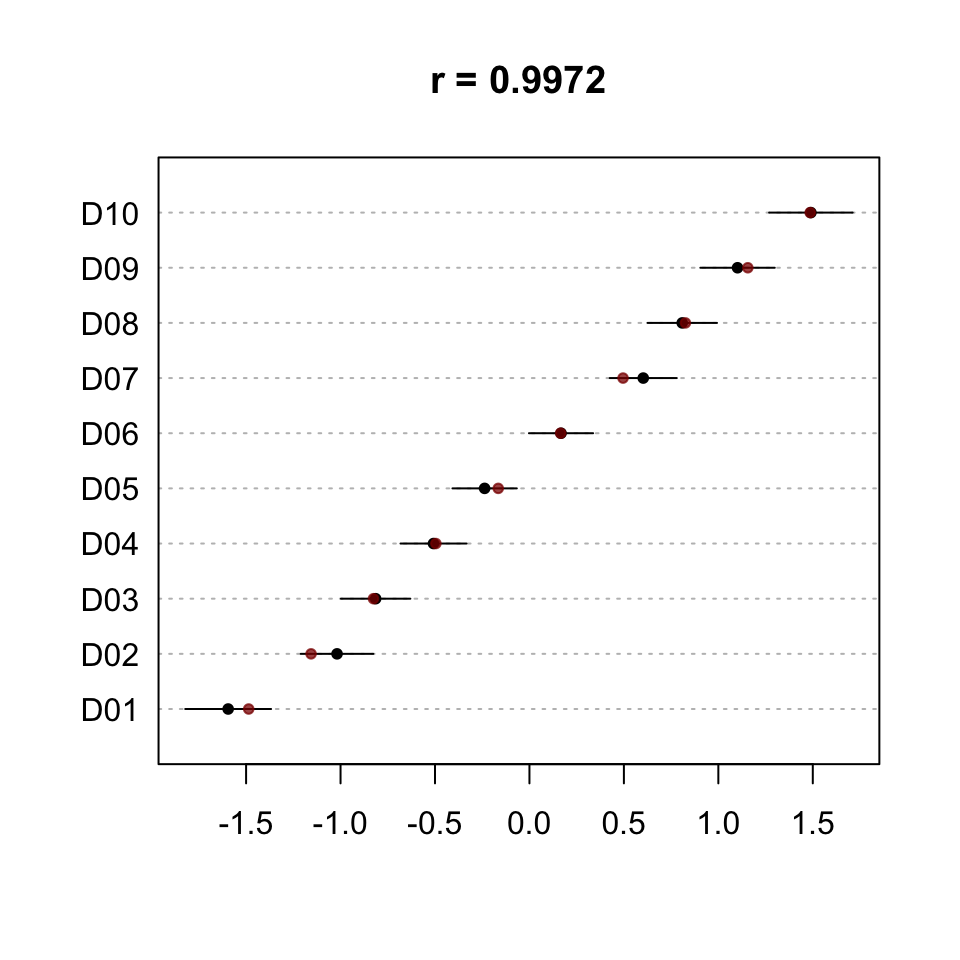
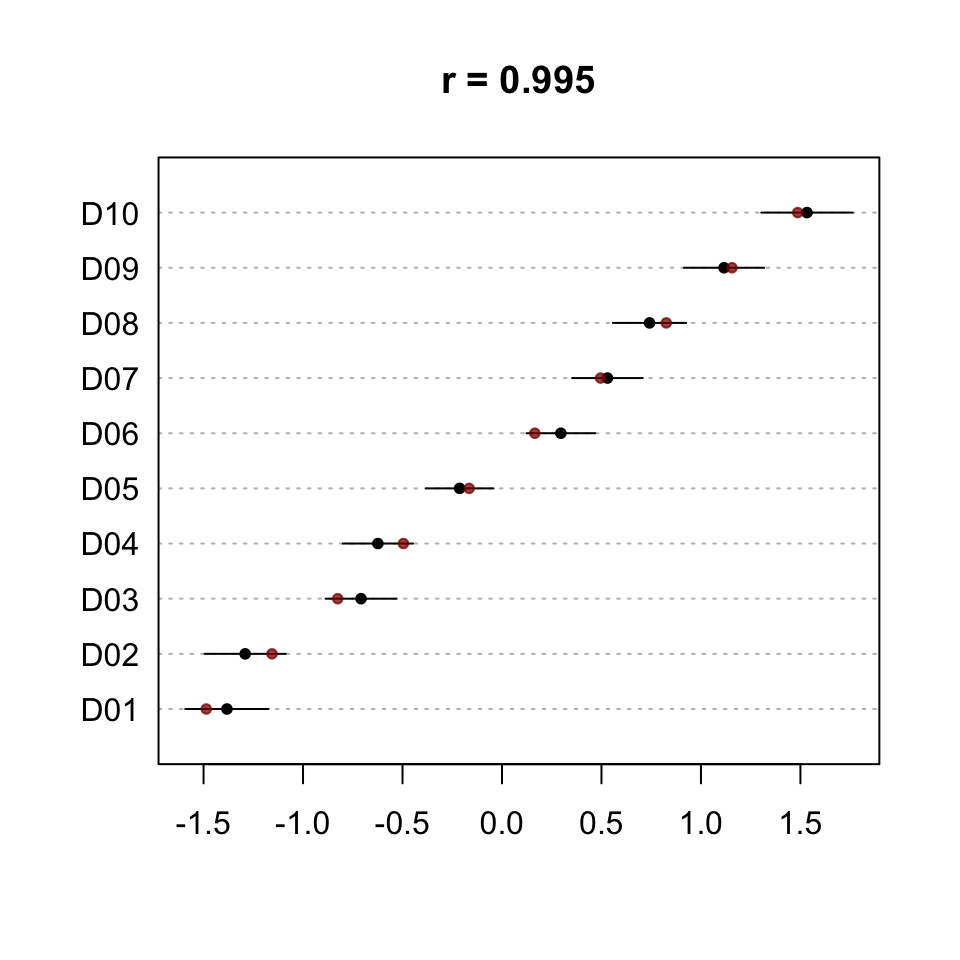
updated website

diff --git a/docs/articles/austin.html b/docs/articles/austin.html
@@ -59,7 +59,7 @@
       <h1>Introduction to Austin</h1>
                         <h4 class="author">Will Lowe</h4>
             
-            <h4 class="date">2017-06-30</h4>
+            <h4 class="date">2017-07-01</h4>
           </div>
 
     
@@ -105,18 +105,18 @@ Austin treats the first parameterization as a computational convenience to make 
 <div class="sourceCode"><pre class="sourceCode r"><code class="sourceCode r"><span class="kw"><a href="../reference/as.worddoc.html">as.worddoc</a></span>(dd$Y)
 ##      docs
 ## words D01 D02 D03 D04 D05 D06 D07 D08 D09 D10
-##   W01  32  39  27  23  12  25  17  15  16   6
-##   W02  36  44  27  32  28  16  12  14  12   6
-##   W03  41  32  37  38  16  22  11  13   5   7
-##   W04   3  16  14  11  17  33  21  35  35  39
-##   W05   6  10  16  17  24  25  22  28  34  34
-##   W06   6  14  14  13  21  28  31  33  46  31
-##   W07  88  92  71  86  80  59  49  35  37  20
-##   W08  97  86  93  69  75  54  50  37  26  30
-##   W09 126  82  95  67  73  56  40  39  28  21
-##   W10  24  27  37  48  52  60  60  87  96  95
-##   W11  16  28  25  35  53  63  86  76  72  96
-##   W12  25  30  44  61  49  59 101  88  93 115</code></pre></div>
+##   W01  41  39  28  27  30  23  16  12  13  10
+##   W02  41  35  28  24  28  15  15  13   6   9
+##   W03  40  27  29  31  25   9  12  16   8   3
+##   W04   9  12  20  14  18  22  27  27  28  42
+##   W05  11   8  17  26  18  35  30  30  41  43
+##   W06   5   5  14  15  28  26  26  28  34  28
+##   W07  89  93  76  81  61  49  50  34  31  25
+##   W08 104 102  83  81  64  54  43  36  35  13
+##   W09  83  97  88  78  62  57  42  42  23  22
+##   W10  24  33  38  45  62  70  89  98 103 107
+##   W11  21  25  42  36  43  69  74  83  93  94
+##   W12  32  24  37  42  61  71  76  81  85 104</code></pre></div>
 <p>where Y is an object of class <code>wfm</code>.</p>
 <p>To scale this data we use the wordfish function</p>
 <div class="sourceCode"><pre class="sourceCode r"><code class="sourceCode r">wf &lt;-<span class="st"> </span><span class="kw"><a href="../reference/wordfish.html">wordfish</a></span>(dd$Y)</code></pre></div>
@@ -127,46 +127,46 @@ Austin treats the first parameterization as a computational convenience to make 
 ##  wordfish(wfm = dd$Y)
 ## 
 ## Document Positions:
-##     Estimate Std. Error    Lower    Upper
-## D01  -1.5949    0.11593 -1.82216 -1.36773
-## D02  -1.0186    0.09805 -1.21075 -0.82638
-## D03  -0.8142    0.09375 -0.99795 -0.63047
-## D04  -0.5079    0.08916 -0.68268 -0.33318
-## D05  -0.2373    0.08691 -0.40761 -0.06692
-## D06   0.1672    0.08665 -0.00262  0.33702
-## D07   0.6025    0.09052  0.42507  0.77989
-## D08   0.8088    0.09391  0.62474  0.99286
-## D09   1.1016    0.10053  0.90460  1.29865
-## D10   1.4900    0.11280  1.26890  1.71108</code></pre></div>
+##     Estimate Std. Error   Lower    Upper
+## D01  -1.3824    0.10698 -1.5921 -1.17270
+## D02  -1.2908    0.10416 -1.4950 -1.08668
+## D03  -0.7084    0.09127 -0.8873 -0.52955
+## D04  -0.6238    0.09009 -0.8004 -0.44725
+## D05  -0.2130    0.08674 -0.3830 -0.04295
+## D06   0.2960    0.08795  0.1236  0.46834
+## D07   0.5300    0.09052  0.3526  0.70741
+## D08   0.7416    0.09397  0.5574  0.92575
+## D09   1.1162    0.10283  0.9146  1.31771
+## D10   1.5329    0.11717  1.3032  1.76254</code></pre></div>
 <p>To examine the word-specific parameters use</p>
 <div class="sourceCode"><pre class="sourceCode r"><code class="sourceCode r"><span class="kw">coef</span>(wf)
 ## $words
 ##           beta      psi
-## W01 -0.2926532 3.012516
-## W02 -0.4355365 3.023468
-## W03 -0.5173627 2.961505
-## W04  0.7193090 3.010726
-## W05  0.6143679 3.017655
-## W06  0.6789908 3.084710
-## W07 -0.2935112 4.080791
-## W08 -0.3190879 4.071433
-## W09 -0.4340449 4.040084
-## W10  0.6410030 4.005461
-## W11  0.7026040 3.916418
-## W12  0.6501193 4.128306
+## W01 -0.3933133 3.101085
+## W02 -0.4848757 2.950990
+## W03 -0.5384519 2.857377
+## W04  0.5757630 3.029214
+## W05  0.6057153 3.185465
+## W06  0.6166657 2.966598
+## W07 -0.3579225 4.016837
+## W08 -0.4535794 4.020775
+## W09 -0.3838047 4.015330
+## W10  0.6273774 4.125684
+## W11  0.6449619 3.975581
+## W12  0.5892480 4.053411
 ## 
 ## $docs
-##           alpha
-## D01  0.00000000
-## D02  0.08507485
-## D03  0.10274448
-## D04  0.11128283
-## D05  0.09911016
-## D06  0.04505844
-## D07 -0.06145480
-## D08 -0.12842629
-## D09 -0.23982448
-## D10 -0.41327191
+##            alpha
+## D01  0.000000000
+## D02  0.009538289
+## D03  0.089609968
+## D04  0.094885160
+## D05  0.094763298
+## D06  0.032822116
+## D07 -0.018344772
+## D08 -0.076057067
+## D09 -0.202672675
+## D10 -0.374387640
 ## 
 ## attr(,"class")
 ## [1] "coef.wordfish" "list"</code></pre></div>
@@ -174,9 +174,9 @@ Austin treats the first parameterization as a computational convenience to make 
 <p><img src="austin_files/figure-html/unnamed-chunk-10-1.png" width="480"></p>
 <p>Positions for new documents can also be estimated. Here we generate predictions and confidence intervals for existing documents D4 and D5 in the original data set</p>
 <div class="sourceCode"><pre class="sourceCode r"><code class="sourceCode r"><span class="kw">predict</span>(wf, <span class="dt">newdata=</span><span class="kw"><a href="../reference/getdocs.html">getdocs</a></span>(dd$Y, <span class="kw">c</span>(<span class="dv">4</span>,<span class="dv">5</span>)), <span class="dt">se.fit=</span><span class="ot">TRUE</span>, <span class="dt">interval=</span><span class="st">'conf'</span>)
-##            fit     se.fit        lwr         upr
-## D04 -0.5079313 0.08916016 -0.6826820 -0.33318057
-## D05 -0.2372642 0.08691248 -0.4076095 -0.06691883</code></pre></div>
+##            fit     se.fit       lwr         upr
+## D04 -0.6238214 0.09008720 -0.800389 -0.44725368
+## D05 -0.2129549 0.08673785 -0.382958 -0.04295187</code></pre></div>
 </div>
 <div id="scaling-with-wordscores" class="section level1">
 <h1 class="hasAnchor">

diff --git a/docs/index.html b/docs/index.html
@@ -92,6 +92,7 @@
 <h2>Dev status</h2>
 <ul class="list-unstyled">
 <li><a href="https://travis-ci.org/conjugateprior/austin"><img src="https://travis-ci.org/conjugateprior/austin.svg?branch=master" alt="Build Status"></a></li>
+<li><a href="https://codecov.io/gh/conjugateprior/austin"><img src="https://codecov.io/gh/conjugateprior/austin/branch/master/graph/badge.svg" alt="codecov"></a></li>
 </ul>
 </div>
 </div>
